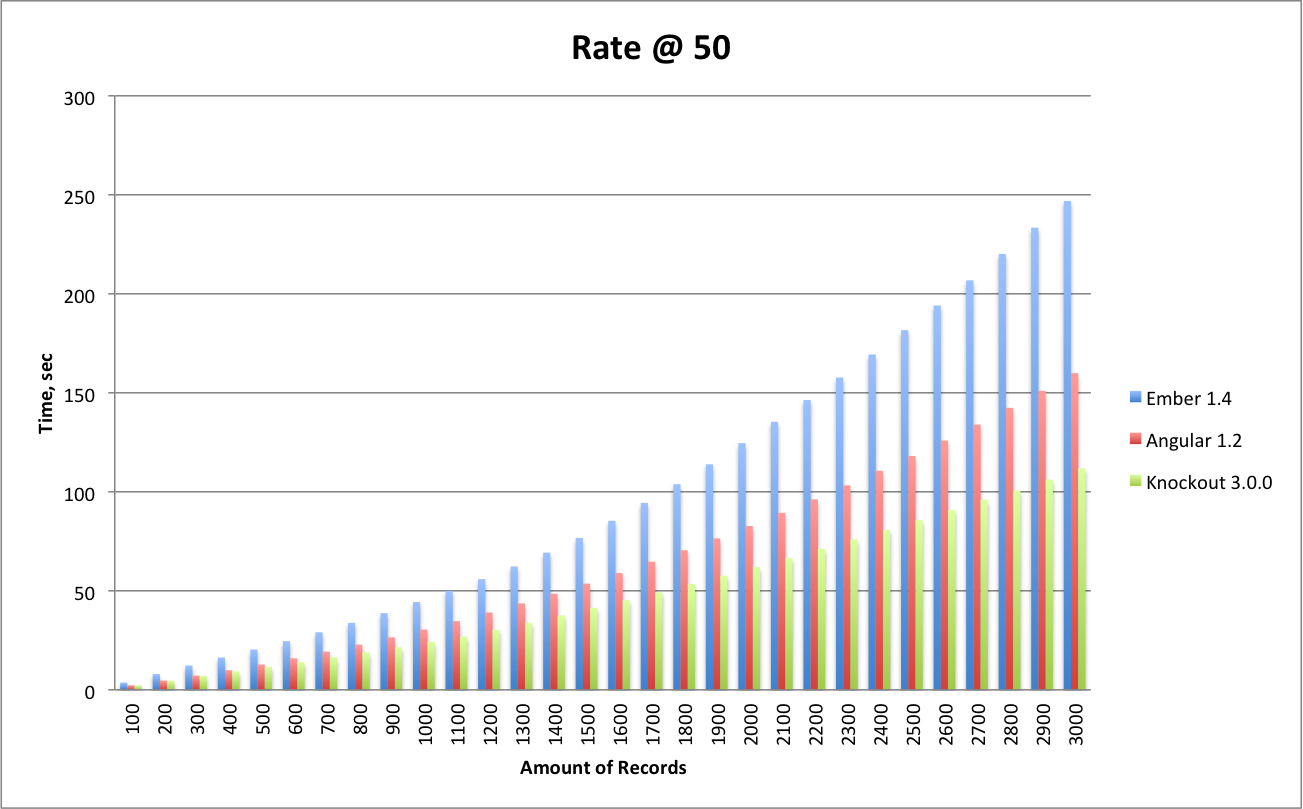
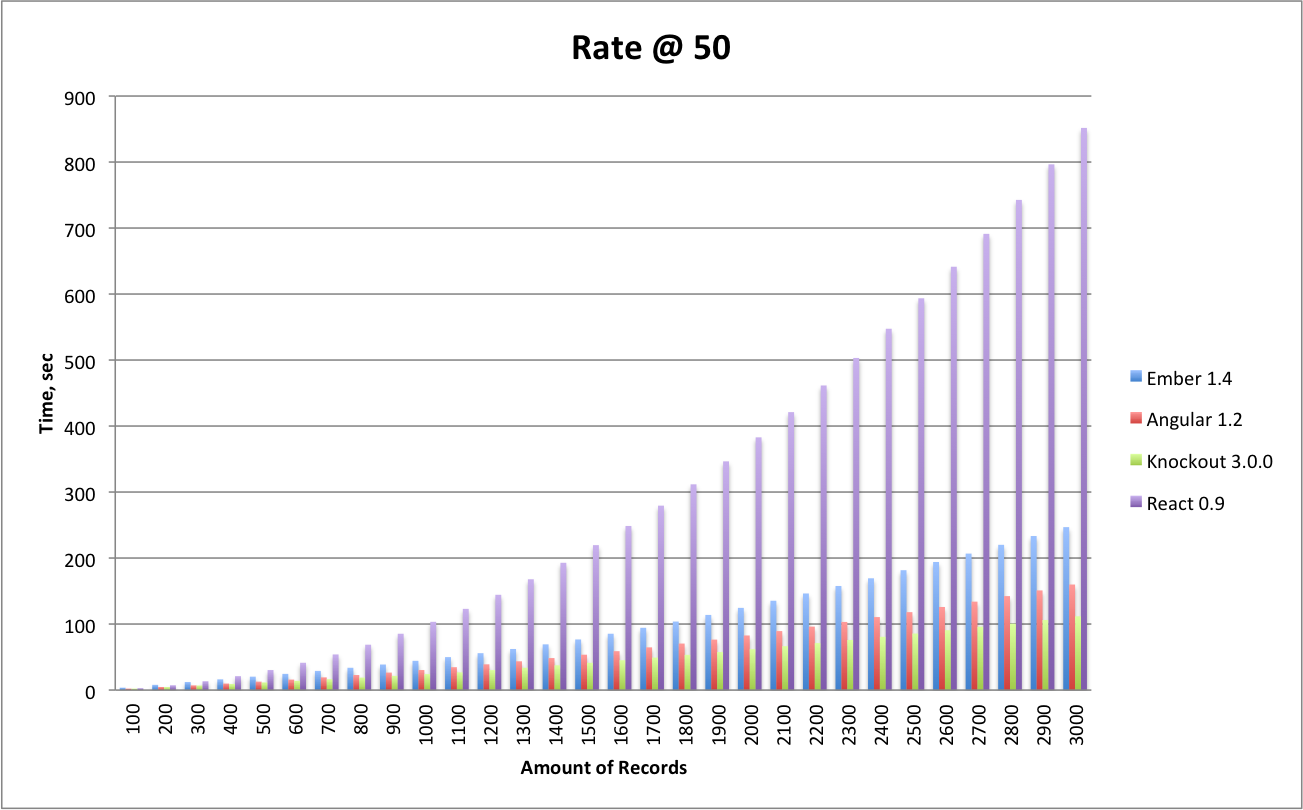
react stats updated

diff --git a/README.md b/README.md
@@ -26,12 +26,14 @@ overall amount of records that should be added to the table. Two fields on the r
 records in the table, and the elapsed time that took to populate the table.
 
 ### Statistics
+The lower bar, the better.
 ![Statistics Chart](./stats/stats.png)
 
 ### Candidates
 * Angular v1.2
 * Ember v1.4
 * Knockout v3.0.0
+* React 0.9
 
 
 ### Authors
